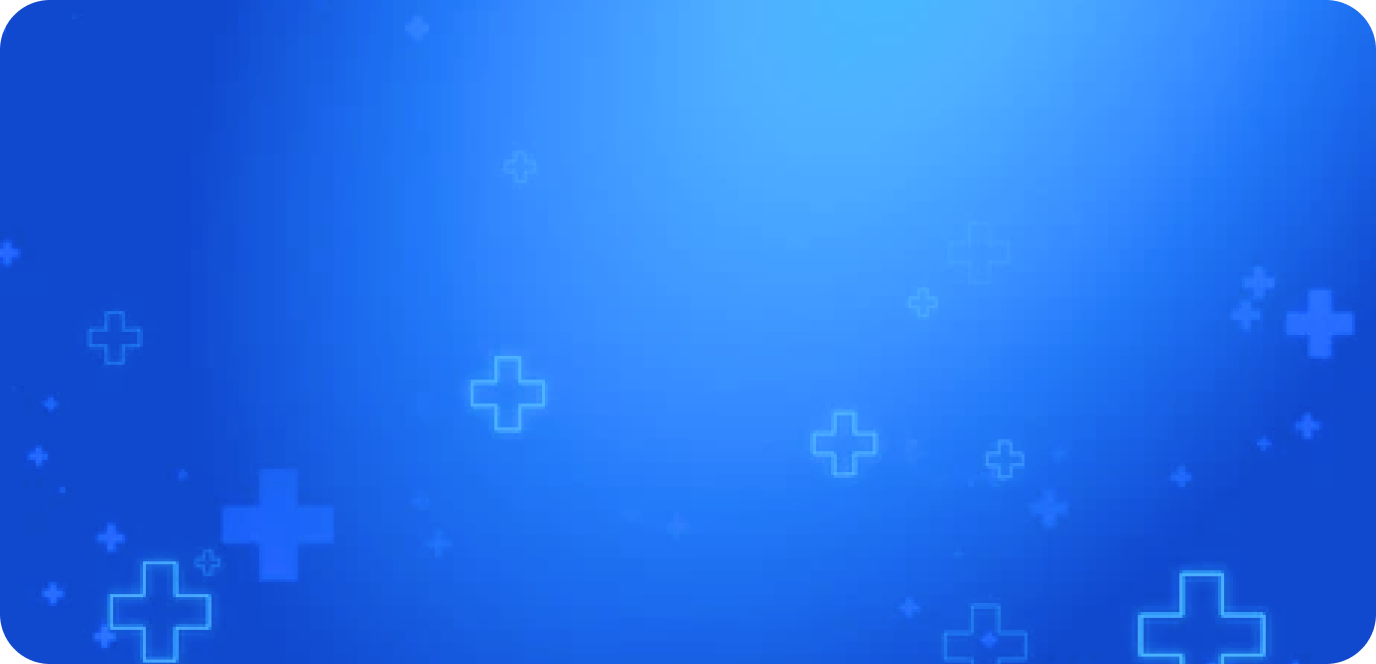
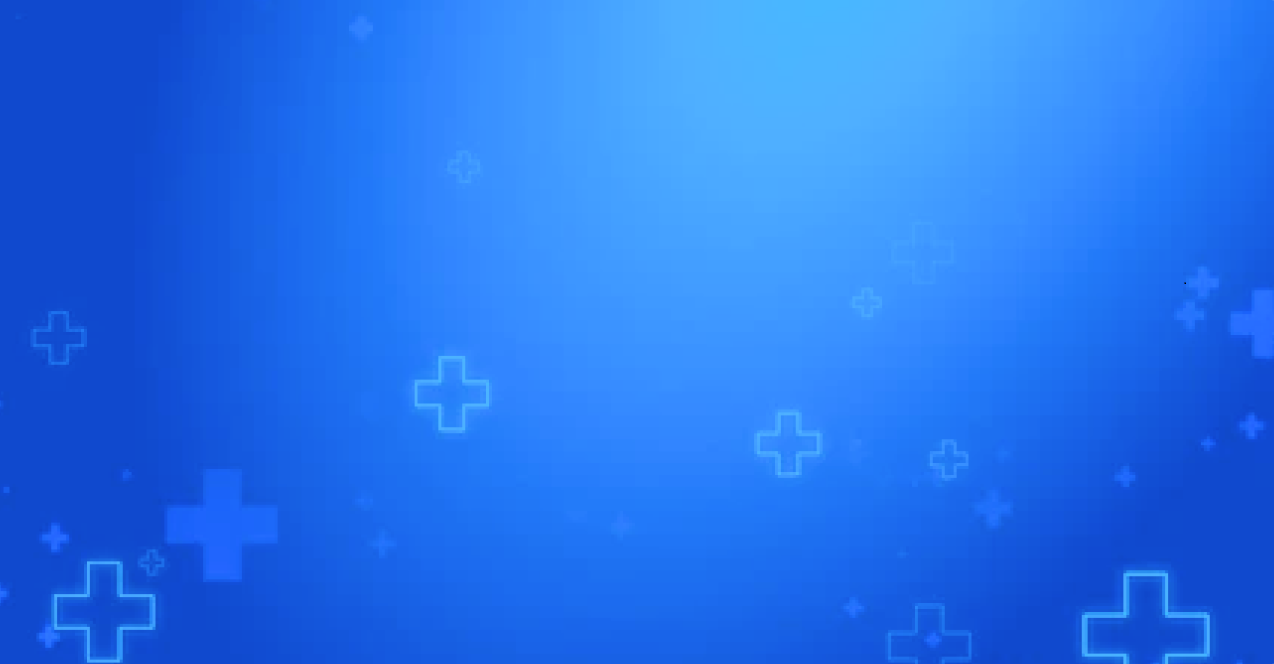
tracking part background changed

diff --git a/home.html b/home.html
@@ -148,7 +148,7 @@
             <div class="tracking-part-container">
                 <h2 class="tracking-part-title">بيمار محترم، براي پيگيري نوبت هاي خود لطفا کدملي خود را به صورت صحيح وارد کنيد</h2>
                 <div class="tracking-form-container">
-                    <img src="styles/img/free-healthcare-icon-3610-thumb 1.png" alt="health img">
+                    <img class="healthcare-img" src="styles/img/free-healthcare-icon-3610-thumb 1.png" alt="health img">
                     <form class="tracking-form">
                         <div class="id-input-container">
                             <label class="id-label" for="id">کدملي</label>

diff --git a/styles/home.css b/styles/home.css
@@ -137,13 +137,12 @@
     background-image: url(./img/medical-health-blue-cross-neon-260nw-1931158001\ 1.png);
     background-size: cover;
     background-repeat: no-repeat;
-    height: 660px;
+    border-radius: 50px;
     display: flex;
-    justify-content: center;
     align-items: center;
     flex-direction: column;
-    gap: 20px;
-
+    gap: 50px;
+    padding: 80px 0;
 }
 
 .tracking-part-title{
@@ -155,7 +154,14 @@
     border-radius: 50px;
 }
 
+.healthcare-img{
+    margin-left: 150px;
+}
+
 .tracking-form{
+    border-radius: 50px;
+    height: 200px;
+    margin-left: 185px;
     padding: 50px 20px;
     background-color: var(--background-color);  
     display: flex;
